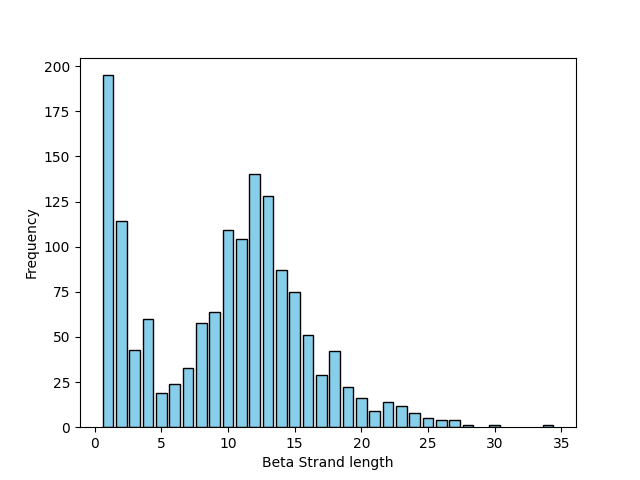
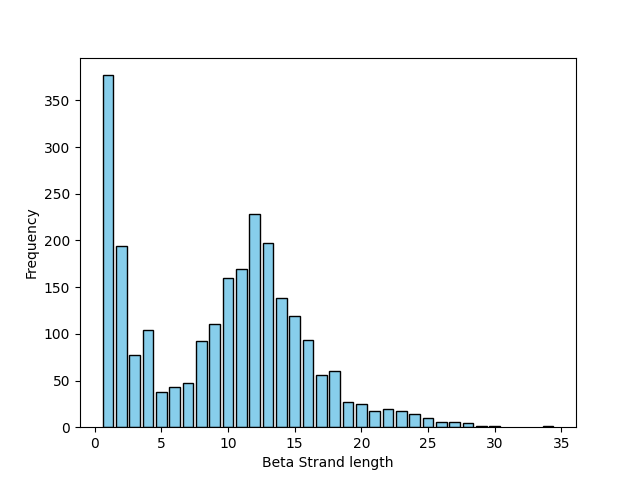
fualty ids fixed & test for Ca generation

diff --git a/test_generation.py b/test_generation.py
@@ -1,0 +1,138 @@
+import argparse
+import json
+import Bio
+from Bio.Align import substitution_matrices
+from Bio.PDB import PDBParser, Superimposer
+import numpy as np
+import os
+import matplotlib.pyplot as plt
+from tqdm import tqdm
+
+
+def calculate_rmsd(pdb_file1, pdb_file2):
+
+    parser = PDBParser(QUIET=True)
+    structure1 = parser.get_structure("struct1", pdb_file1)
+    structure2 = parser.get_structure("struct2", pdb_file2)
+    
+    # Extract Cα atoms from the first (and only) chain
+    def get_ca_atoms_single_chain(structure):
+        
+        model = next(structure.get_models())  # Get the first model
+        chain = next(model.get_chains())  # Get the first chain
+        
+        return [residue['CA'] for residue in chain if 'CA' in residue]
+    
+    ca_atoms1 = get_ca_atoms_single_chain(structure1)
+    
+    ca_atoms2 = get_ca_atoms_single_chain(structure2)
+    
+    print(pdb_file2)
+    print(len(ca_atoms1), len(ca_atoms2))
+
+    if len(ca_atoms1) != len(ca_atoms2):
+        min_ca_atoms = min(len(ca_atoms2), len(ca_atoms1))
+        ca_atoms1 = ca_atoms1[:min_ca_atoms]
+        ca_atoms2 = ca_atoms2[:min_ca_atoms]
+        #print("Structures have different numbers of Cα atoms, skipping this one")
+        #return
+    
+    # Superimpose the structures
+    super_imposer = Superimposer()
+    super_imposer.set_atoms(ca_atoms1, ca_atoms2)
+    super_imposer.apply(structure2.get_atoms())  # Align structure2 to structure1
+    
+    # Calculate RMSD
+    rmsd = super_imposer.rms
+    return rmsd
+
+
+
+def plot_ss_comp(id, work_dir, generated_sequences_id_dir):
+    generated_pdb_file = os.listdir(generated_sequences_id_dir)
+    og_pdb_fil_path = f'{work_dir}/pdb_files/{id}.pdb'
+    pdb_file = [f'{generated_sequences_id_dir}/{f}' for f in generated_pdb_file]
+    ss_similiarty = []
+    for generated_pdb in pdb_file:
+        ss_similiarty.append(calculate_rmsd(og_pdb_fil_path, generated_pdb))
+
+    return ss_similiarty
+
+def plot_seq_comp(generated_sequences):
+    sequences_identity = []
+    sequences_similarity = []
+    og_seq = generated_sequences[0]
+    print(len(og_seq))
+    for generated_seq in generated_sequences[1:]:
+        print(len(generated_seq))
+    return 
+
+def run(args):
+
+    work_dir = args.work_dir
+    strategy = args.strategy
+    generated_sequences_dir = f"{work_dir}/generated_sequences/{strategy}"
+    sequences_file = f'{generated_sequences_dir}/seq.json'
+    results_dir = f'{work_dir}/comparison_results/{strategy}_comparison'
+
+    
+    if not os.path.exists(results_dir):
+        os.makedirs(results_dir)
+
+    with open(sequences_file,'r') as json_file:
+        seq_data = json.load(json_file)
+
+    print('Starting generation comparsion ...')
+
+    id = 'e2wjrA1'
+
+    generated_sequences_id_dir = f'{generated_sequences_dir}/{id}' 
+    ss_similarity = plot_ss_comp(id, work_dir, generated_sequences_id_dir)
+    print(ss_similarity)
+    plt.plot(range(len(ss_similarity)), ss_similarity)
+    plt.savefig('/root/Biology_project/test.png')        
+    print('Done Comparing')
+
+
+
+if __name__ == "__main__":
+
+    parser = argparse.ArgumentParser(description="Strands Generation")
+    # Add arguments
+    parser.add_argument("--work_dir", type=str, default='/root/Biology_project', help='dirctory to save pdb file in')
+    parser.add_argument("--strategy",type=str, default='sequential',
+                        choices=['sequential', 'reverse', 'random'])    
+    args = parser.parse_args()
+    run(args)
+
+
+"""
+
+[
+
+[6, 7, 8, 9, 10, 11, 12, 13, 14, 15, 16], 
+
+
+[36,37,38,39,40,41,42, 43, 44 ,45, 46], 
+
+
+[51, 52, 53, 54, 55, 56, 57, 58,59, 60, 61, 62, 63, 64, 65, 66, 67], 
+
+
+
+[71, 72, 73, 74, 75, 76, 77, 78 ,79, 80, 81, 82, 82,, 83, 84, 85, 86, 87, 88], 
+
+
+[96, 97, 98, 99, 100, 101, 102, 103, 104, 105, 106, 107, 108, 109, 110, 111, 112, 113, 114], 
+
+
+[130, 131, 132, 133, 134, 136, 137, 138, 139, 140 ,141, 142, 143], 
+
+
+[148, 149, 150, 151, 152, 153, 154, 155, 156, 157, 158, 159, 160, 161, 162, 163, 164, 165, 166, 167], 
+
+
+[174, 175, 176, 177, 178, 179 ,180 ,181, 182, 183, 184, 185, 186, 187, 188, 189, 190]
+]
+
+"""

diff --git a/preprocesser.py b/preprocesser.py
@@ -7,7 +7,7 @@ import json
 import time
 import subprocess
 from tqdm import tqdm
-
+import re
 
 # ECOD ss download link : http://prodata.swmed.edu/ecod/af2_pdb/structure?id=e2iahA3
 def load_pdb_files(data_file, output_dir):
@@ -36,6 +36,31 @@ def load_pdb_files(data_file, output_dir):
             print(f"File saved as {output_file}")
         except Exception as e:
             print(f"Failed to download file: {e}")
+
+
+def filter_fualty_rows(pdb_path):
+    # Read the PDB file
+    with open(pdb_path, 'r') as file:
+        lines = file.readlines()
+
+    # Filter out lines where the 6th column (occupancy) is missing for ATOM/HETATM lines
+    filtered_lines = []
+    for line in lines:
+        # Check if the line starts with ATOM 
+        if line.startswith("ATOM"):
+            # Use regex to split by one or more spaces
+            columns = re.split(r'\s+', line.strip())
+            # Include the line if there are 11 or more columns
+            if len(columns) == 11:
+                filtered_lines.append(line)
+        else:
+            # Include all other lines (non-ATOM/HETATM)
+            filtered_lines.append(line)
+
+    # Write the filtered lines back to a new PDB file
+    with open(pdb_path, 'w') as output_file:
+        output_file.writelines(filtered_lines)
+
 
 def get_strands(ss_file):
     residue_indcies = []
@@ -103,9 +128,20 @@ def run(args):
             command = f"stride {pdb_dir}/{id}.pdb | grep '^ASG' >> {ss_output_file}"
             with open(ss_output_file, 'w') as output_file:
                 subprocess.run(command, shell=True, check=True)
+
         except subprocess.CalledProcessError as e:
-            faulty_ids.append(id)
-            print(f"Error executing stride: {e}")
+            print(id)
+            try:
+                filter_fualty_rows(f'{pdb_dir}/{id}.pdb')
+                # cliping the stands
+                command = f"stride {pdb_dir}/{id}.pdb | grep '^ASG' >> {ss_output_file}"
+                with open(ss_output_file, 'w') as output_file:
+                    subprocess.run(command, shell=True, check=True)
+
+            except subprocess.CalledProcessError as e:
+                faulty_ids.append(id)
+                print(f"Error executing stride: {e}")
+
     print(f"Finished running stride, saved secondary structure files to {ss_dir}")
 
     # Save faulty IDs to a JSON file

diff --git a/strands_generation.py b/strands_generation.py
@@ -56,6 +56,7 @@ def run(args):
     print('Starting Strand Generation ...')
     generated_data = {}
     for id in tqdm(data.keys()):
+
         seq = data[id]['seq']
         strands_indcies = data[id]['strands']
         state = [seq]
@@ -76,13 +77,13 @@ def run(args):
             protein = ESMProtein(sequence=masked_seq)
 
             # Generate and save seq
-            num_steps = 100
+            num_steps = 1000
 
             protein = model.generate(protein, GenerationConfig(track="sequence", num_steps=num_steps, temperature=args.temperature))
             output_seq = protein.sequence
             state.append(output_seq)
             # Generate and save pdb files 
-            protein = model.generate(protein, GenerationConfig(track="structure", num_steps=num_steps))
+            protein = model.generate(protein, GenerationConfig(track="structure", num_steps=num_steps, temperature=args.temperature))
             generated_sequences = f"{generated_sequences_dir}/{id}"
             # generated seq after each masking foreach seq (id)
             if not os.path.exists(generated_sequences):

diff --git a/filter_fualty.py b/filter_fualty.py
@@ -1,0 +1,26 @@
+import re
+
+pdb_path = '/root/Biology_project/pdb_files/e2wjrA1.pdb'
+# Read the PDB file
+with open(pdb_path, 'r') as file:
+    lines = file.readlines()
+
+# Filter out lines where the 6th column (occupancy) is missing for ATOM/HETATM lines
+filtered_lines = []
+for line in lines:
+    # Check if the line starts with ATOM 
+    if line.startswith("ATOM"):
+        # Use regex to split by one or more spaces
+        columns = re.split(r'\s+', line.strip())
+        # Include the line if there are 11 or more columns
+        if len(columns) == 11:
+            filtered_lines.append(line)
+    else:
+        # Include all other lines (non-ATOM/HETATM)
+        filtered_lines.append(line)
+
+# Write the filtered lines back to a new PDB file
+with open('/root/Biology_project/pdb_files/filtered_e2wjrA1.pdb', 'w') as output_file:
+    output_file.writelines(filtered_lines)
+
+print("Filtered PDB file created: 'filtered_file.pdb'")
